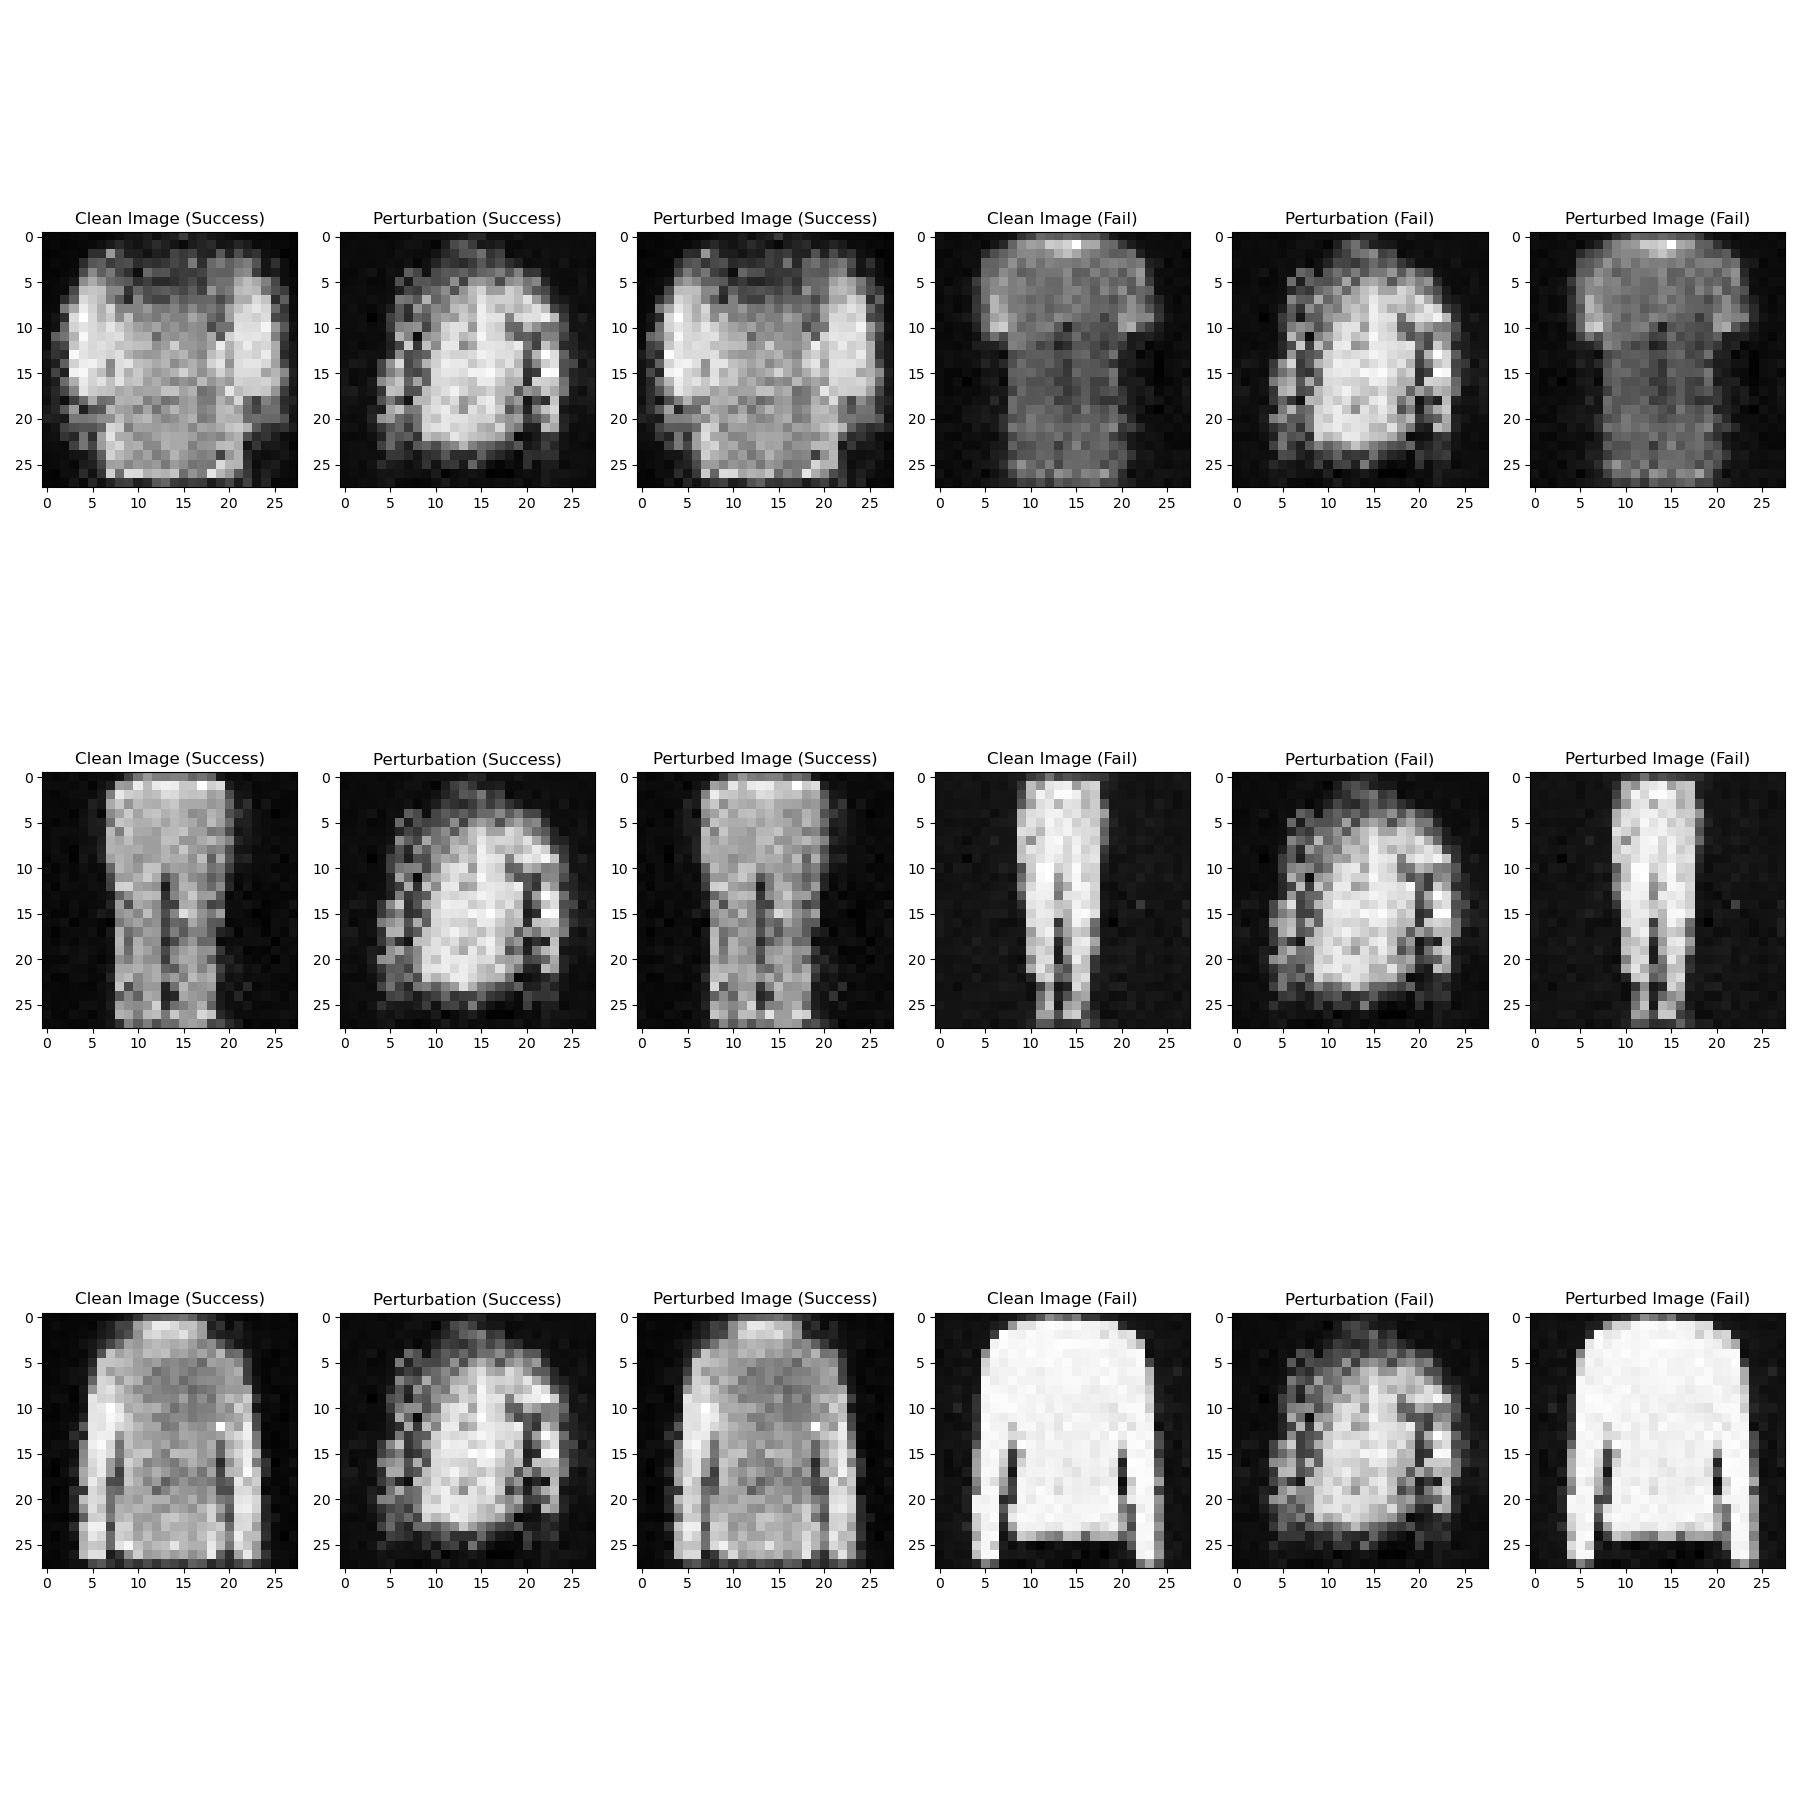
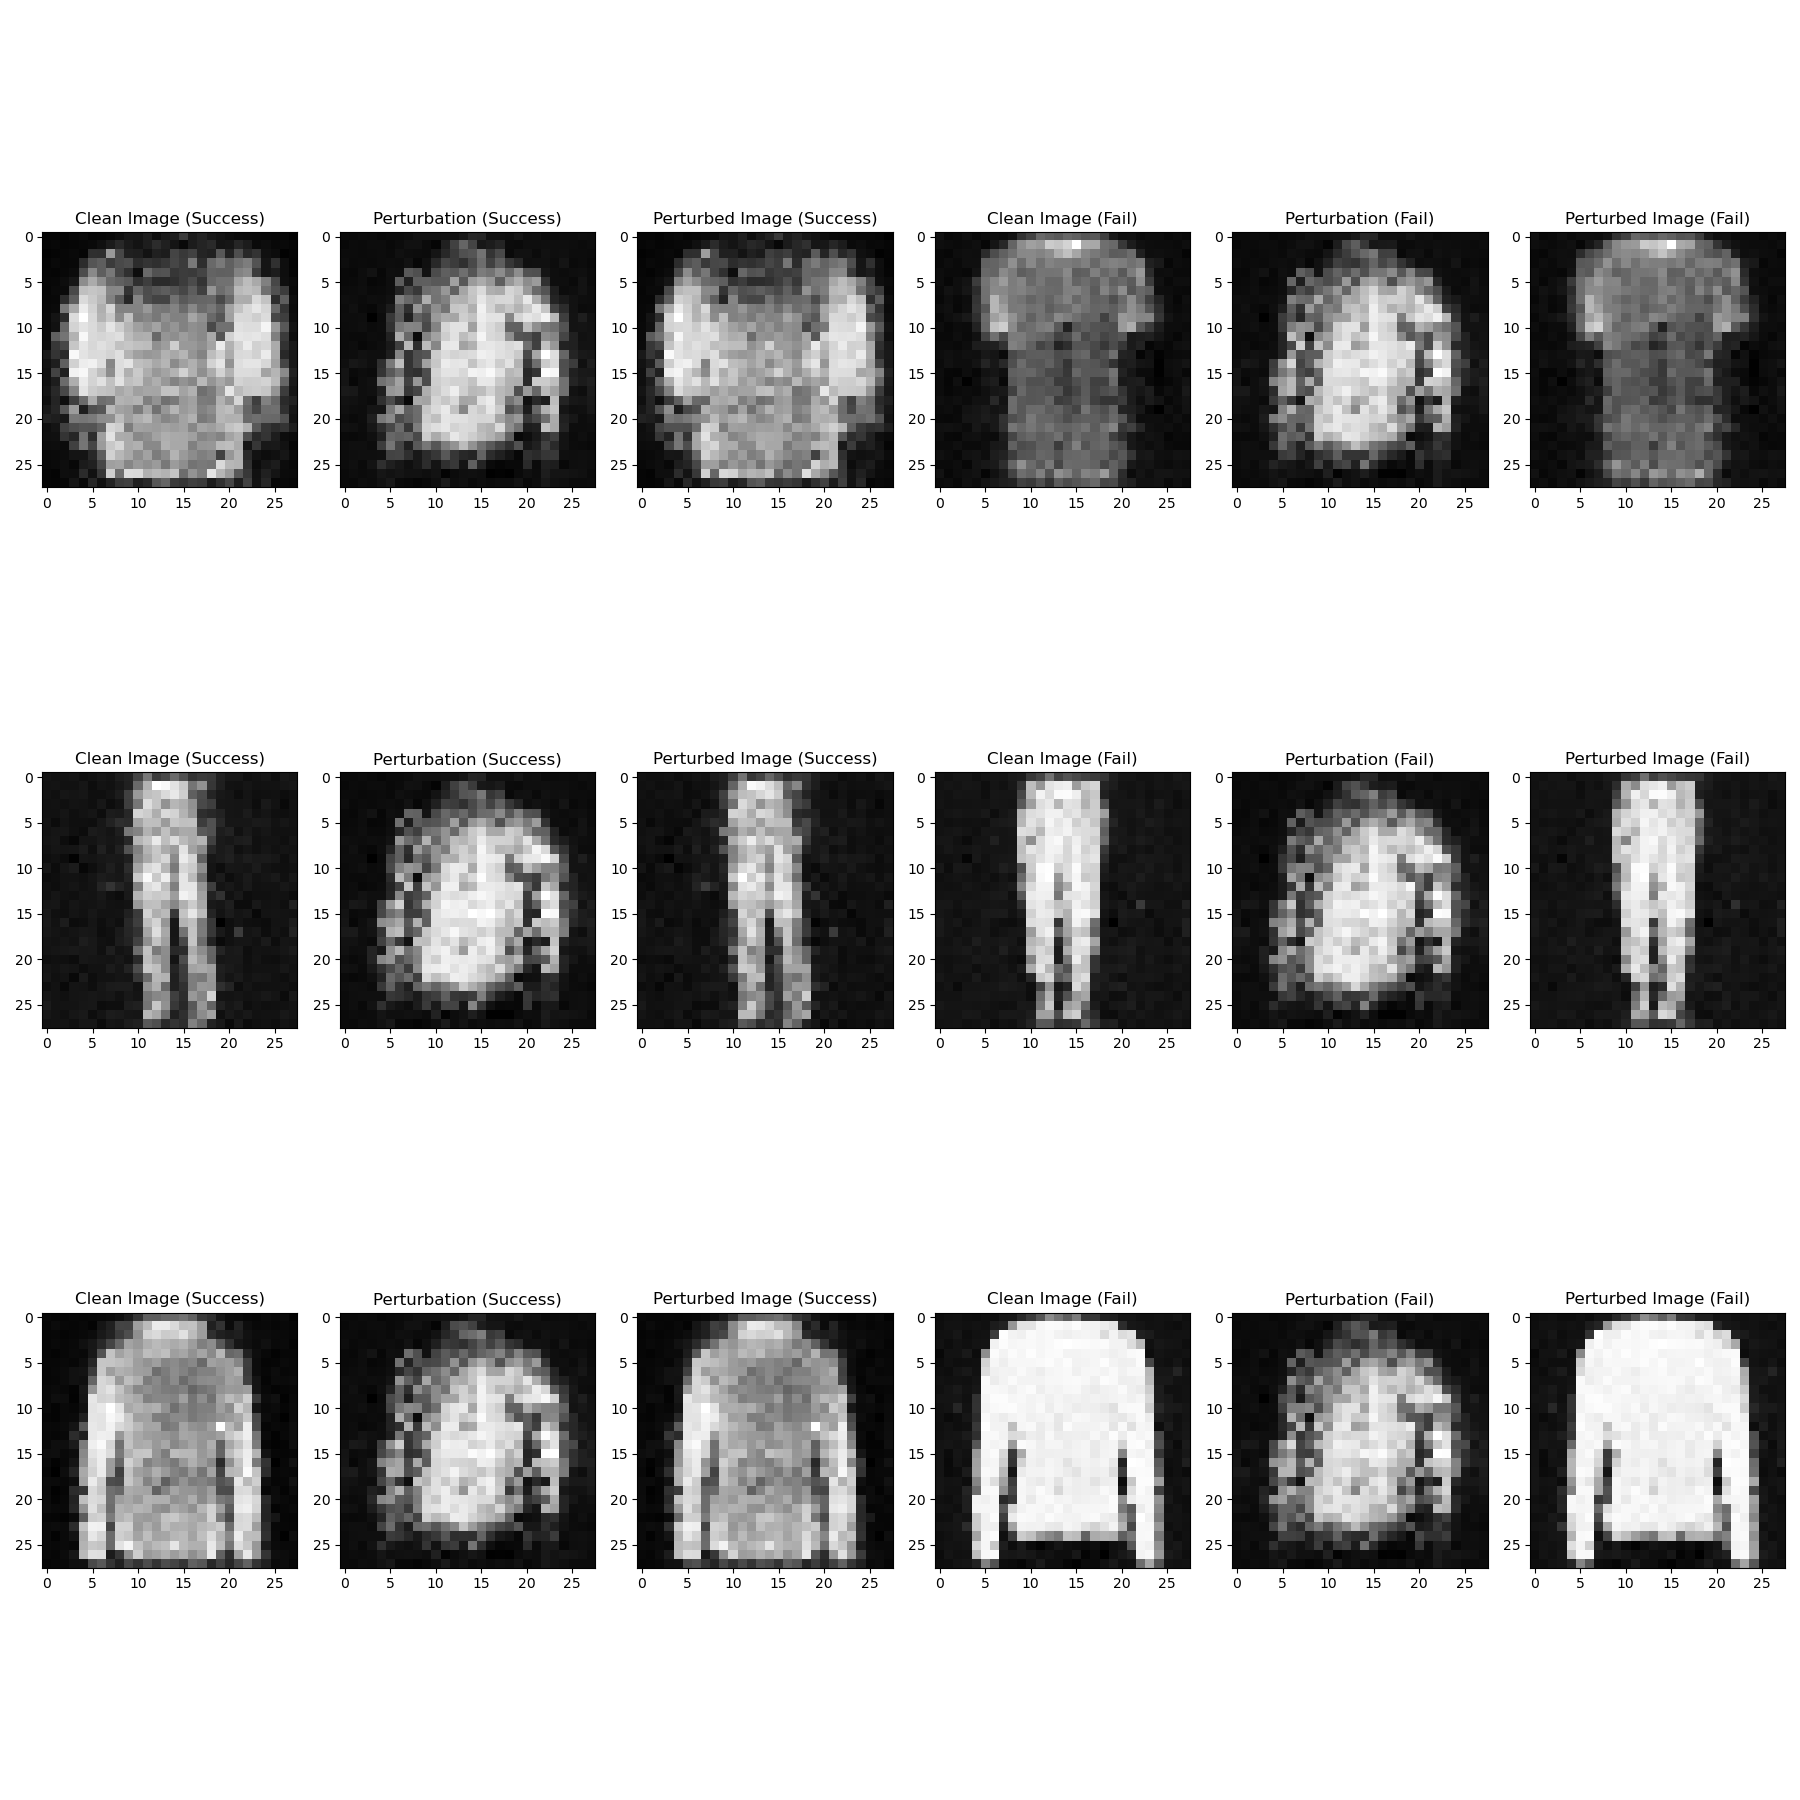
fixed epsilons for attack

Changed region(s): [[0.3733, 0.4044, 0.4667, 0.5911], [0.0622, 0.4044, 0.1556, 0.5911], [0.2178, 0.1867, 0.2489, 0.2489]]

diff --git a/attack.py b/attack.py
@@ -117,7 +117,7 @@ if __name__ == '__main__':
     classifier = WeightSpaceClassifier(in_features=512, num_classes=10).to(device)
     classifier.load_state_dict(torch.load(args.model_path)['state_dict'])
     
-    linf_bounds = [10**(-i) for i in range(3,7)] + [5*10**(-i) for i in range(3,7)] + [2e-4, 3e-4]
+    linf_bounds = [10**(-i) for i in range(3,7)] + [5*10**(-i) for i in range(3,7)] #+ [2e-4, 3e-4]
     
     linf_bounds.sort()
 
